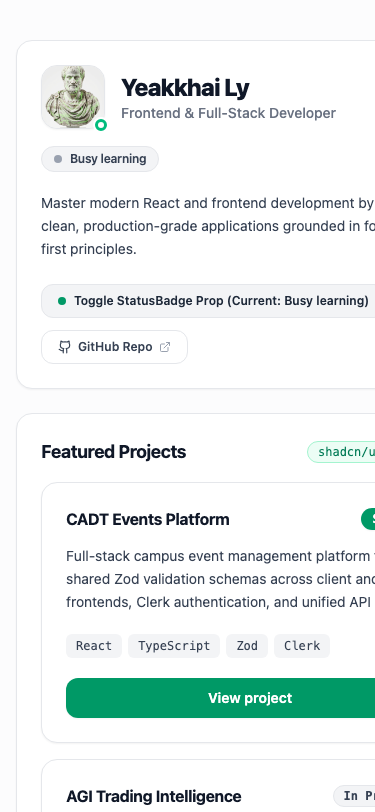
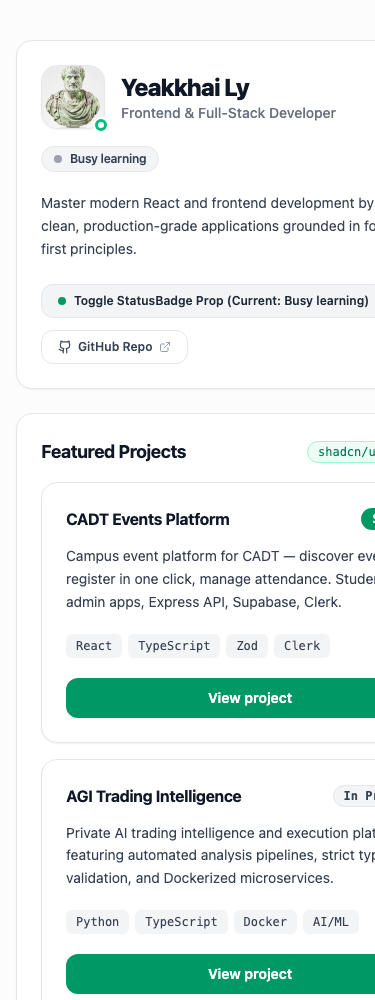
feat: dynamically fetch repo data from GitHub API with graceful fallback

diff --git a/src/App.jsx b/src/App.jsx
@@ -1,4 +1,4 @@
-import { useState } from "react"
+import { useState, useEffect } from "react"
 import StatusBadge from "./components/StatusBadge"
 import SectionCard from "./components/SectionCard"
 import SkillBadge from "./components/SkillBadge"
@@ -25,8 +25,90 @@ function Github({ className, ...props }) {
   )
 }
 
+const GITHUB_REPOS = [
+  {
+    repo: "CADT-Events",
+    fallbackTitle: "CADT Events Platform",
+    fallbackDescription:
+      "Campus event platform for CADT — discover events, register in one click, manage attendance. Student + admin apps, Express API, Supabase, Clerk.",
+    status: "Shipped",
+    fallbackTags: ["React", "TypeScript", "Zod", "Clerk"],
+  },
+  {
+    repo: "AGI-trading",
+    fallbackTitle: "AGI Trading Intelligence",
+    fallbackDescription:
+      "Private AI trading intelligence and execution platform featuring automated analysis pipelines, strict type validation, and Dockerized microservices.",
+    status: "In Progress",
+    fallbackTags: ["Python", "TypeScript", "Docker", "AI/ML"],
+  },
+  {
+    repo: "GhostCLI",
+    fallbackTitle: "GhostCLI Proxy",
+    fallbackDescription:
+      "High-performance local AI model routing and proxy CLI in Go for multi-provider API translation and daemon orchestration.",
+    status: "Shipped",
+    fallbackTags: ["Go", "CLI", "AI Routing", "APIs"],
+  },
+]
+
 export default function App() {
   const [isOpenToWork, setIsOpenToWork] = useState(false)
+  const [projects, setProjects] = useState(() =>
+    GITHUB_REPOS.map((item) => ({
+      title: item.fallbackTitle,
+      status: item.status,
+      description: item.fallbackDescription,
+      tags: item.fallbackTags,
+      link: `https://github.com/lyyeakkhai/${item.repo}`,
+    }))
+  )
+
+  useEffect(() => {
+    let isMounted = true
+
+    async function fetchRepoData() {
+      try {
+        const updated = await Promise.all(
+          GITHUB_REPOS.map(async (item) => {
+            try {
+              const res = await fetch(`https://api.github.com/repos/lyyeakkhai/${item.repo}`)
+              if (!res.ok) return null
+              const data = await res.json()
+              return {
+                title: item.fallbackTitle,
+                status: item.status,
+                description: data.description || item.fallbackDescription,
+                tags: [
+                  data.language,
+                  ...(Array.isArray(data.topics) ? data.topics : []),
+                ].filter(Boolean).length > 0
+                  ? [data.language, ...(data.topics || [])].filter(Boolean)
+                  : item.fallbackTags,
+                link: data.html_url || `https://github.com/lyyeakkhai/${item.repo}`,
+              }
+            } catch {
+              return null
+            }
+          })
+        )
+
+        if (isMounted) {
+          setProjects((prev) =>
+            prev.map((p, idx) => (updated[idx] ? updated[idx] : p))
+          )
+        }
+      } catch {
+        // Keep pre-configured fallback data on network failure
+      }
+    }
+
+    fetchRepoData()
+
+    return () => {
+      isMounted = false
+    }
+  }, [])
 
   const profile = {
     name: "Yeakkhai Ly",
@@ -35,25 +117,6 @@ export default function App() {
     year: new Date().getFullYear(),
     quote: "“We are what we repeatedly do. Excellence, then, is not an act, but a habit.” — Aristotle",
   }
-
-  const projects = [
-    {
-      title: "CADT Events Platform",
-      status: "Shipped",
-      description:
-        "Full-stack campus event management platform featuring shared Zod validation schemas across client and admin frontends, Clerk authentication, and unified API clients.",
-      tags: ["React", "TypeScript", "Zod", "Clerk"],
-      link: "https://github.com/lyyeakkhai/CADT-Events",
-    },
-    {
-      title: "AGI Trading Intelligence",
-      status: "In Progress",
-      description:
-        "Private AI trading intelligence and execution platform featuring automated analysis pipelines, strict type validation, and Dockerized microservices.",
-      tags: ["Python", "TypeScript", "Docker", "AI/ML"],
-      link: "https://github.com/lyyeakkhai/AGI-trading",
-    },
-  ]
 
   const skills = [
     { name: "React 19", category: "Core Framework" },
